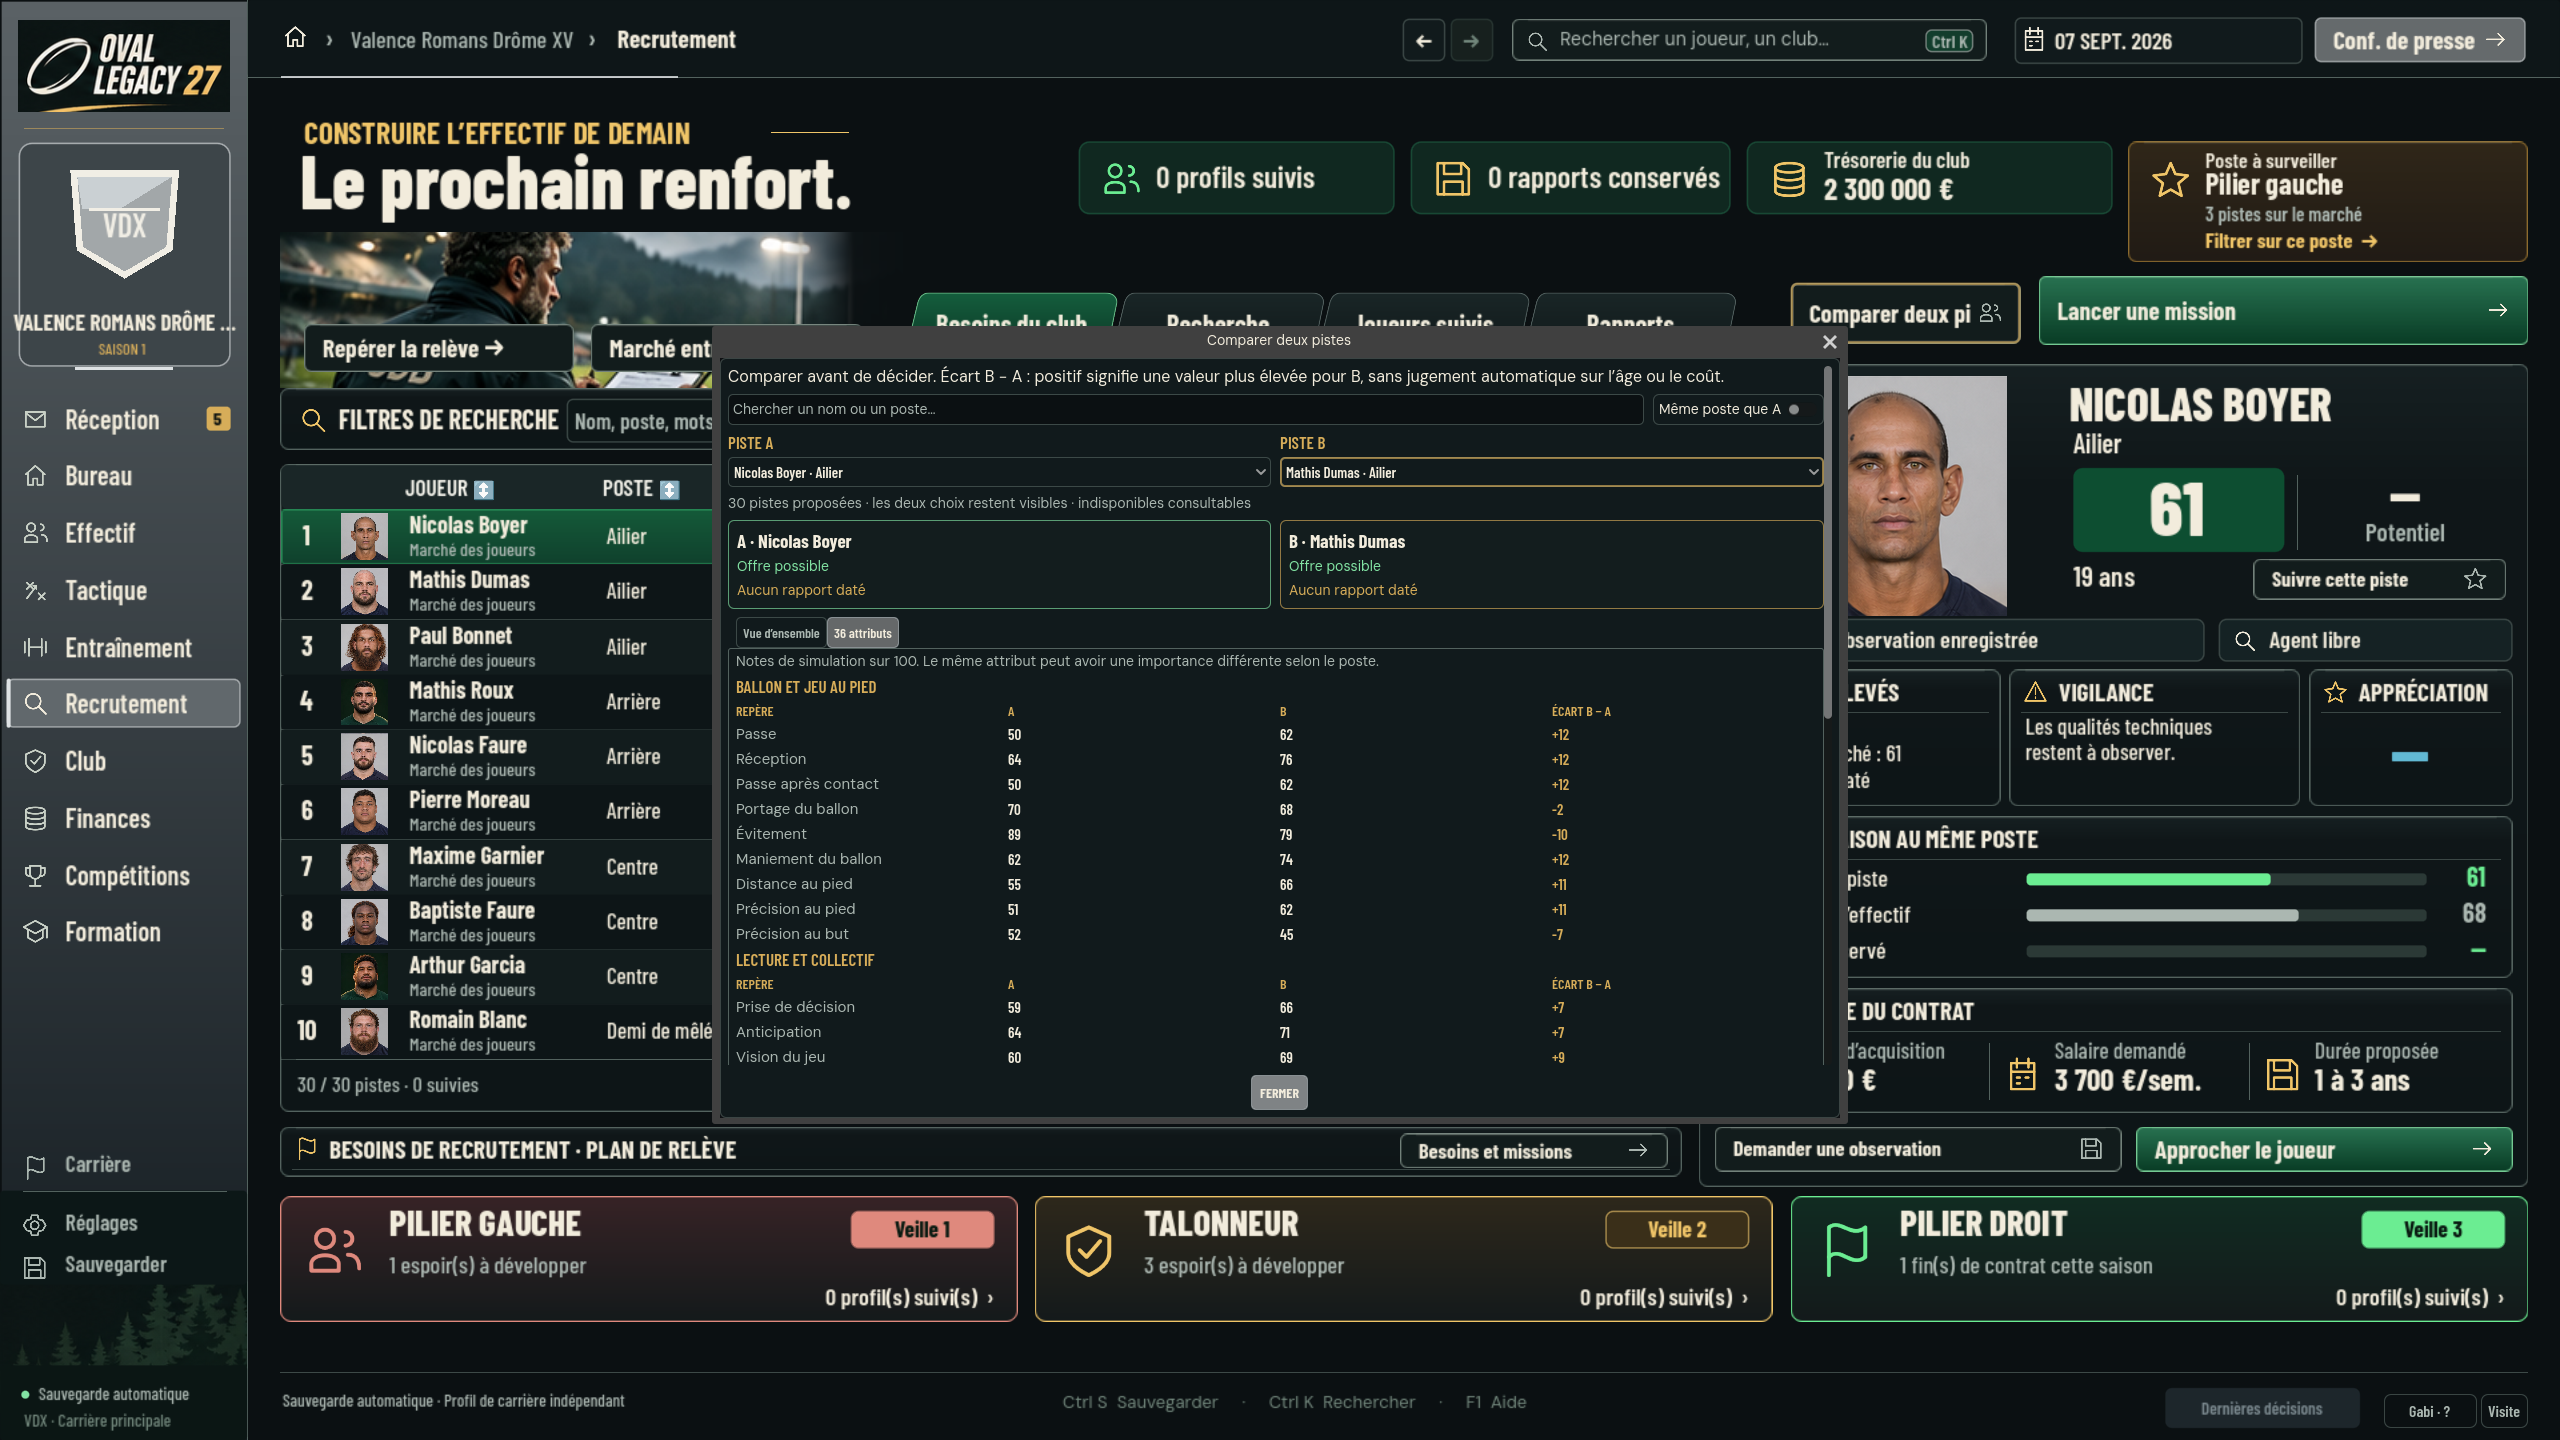
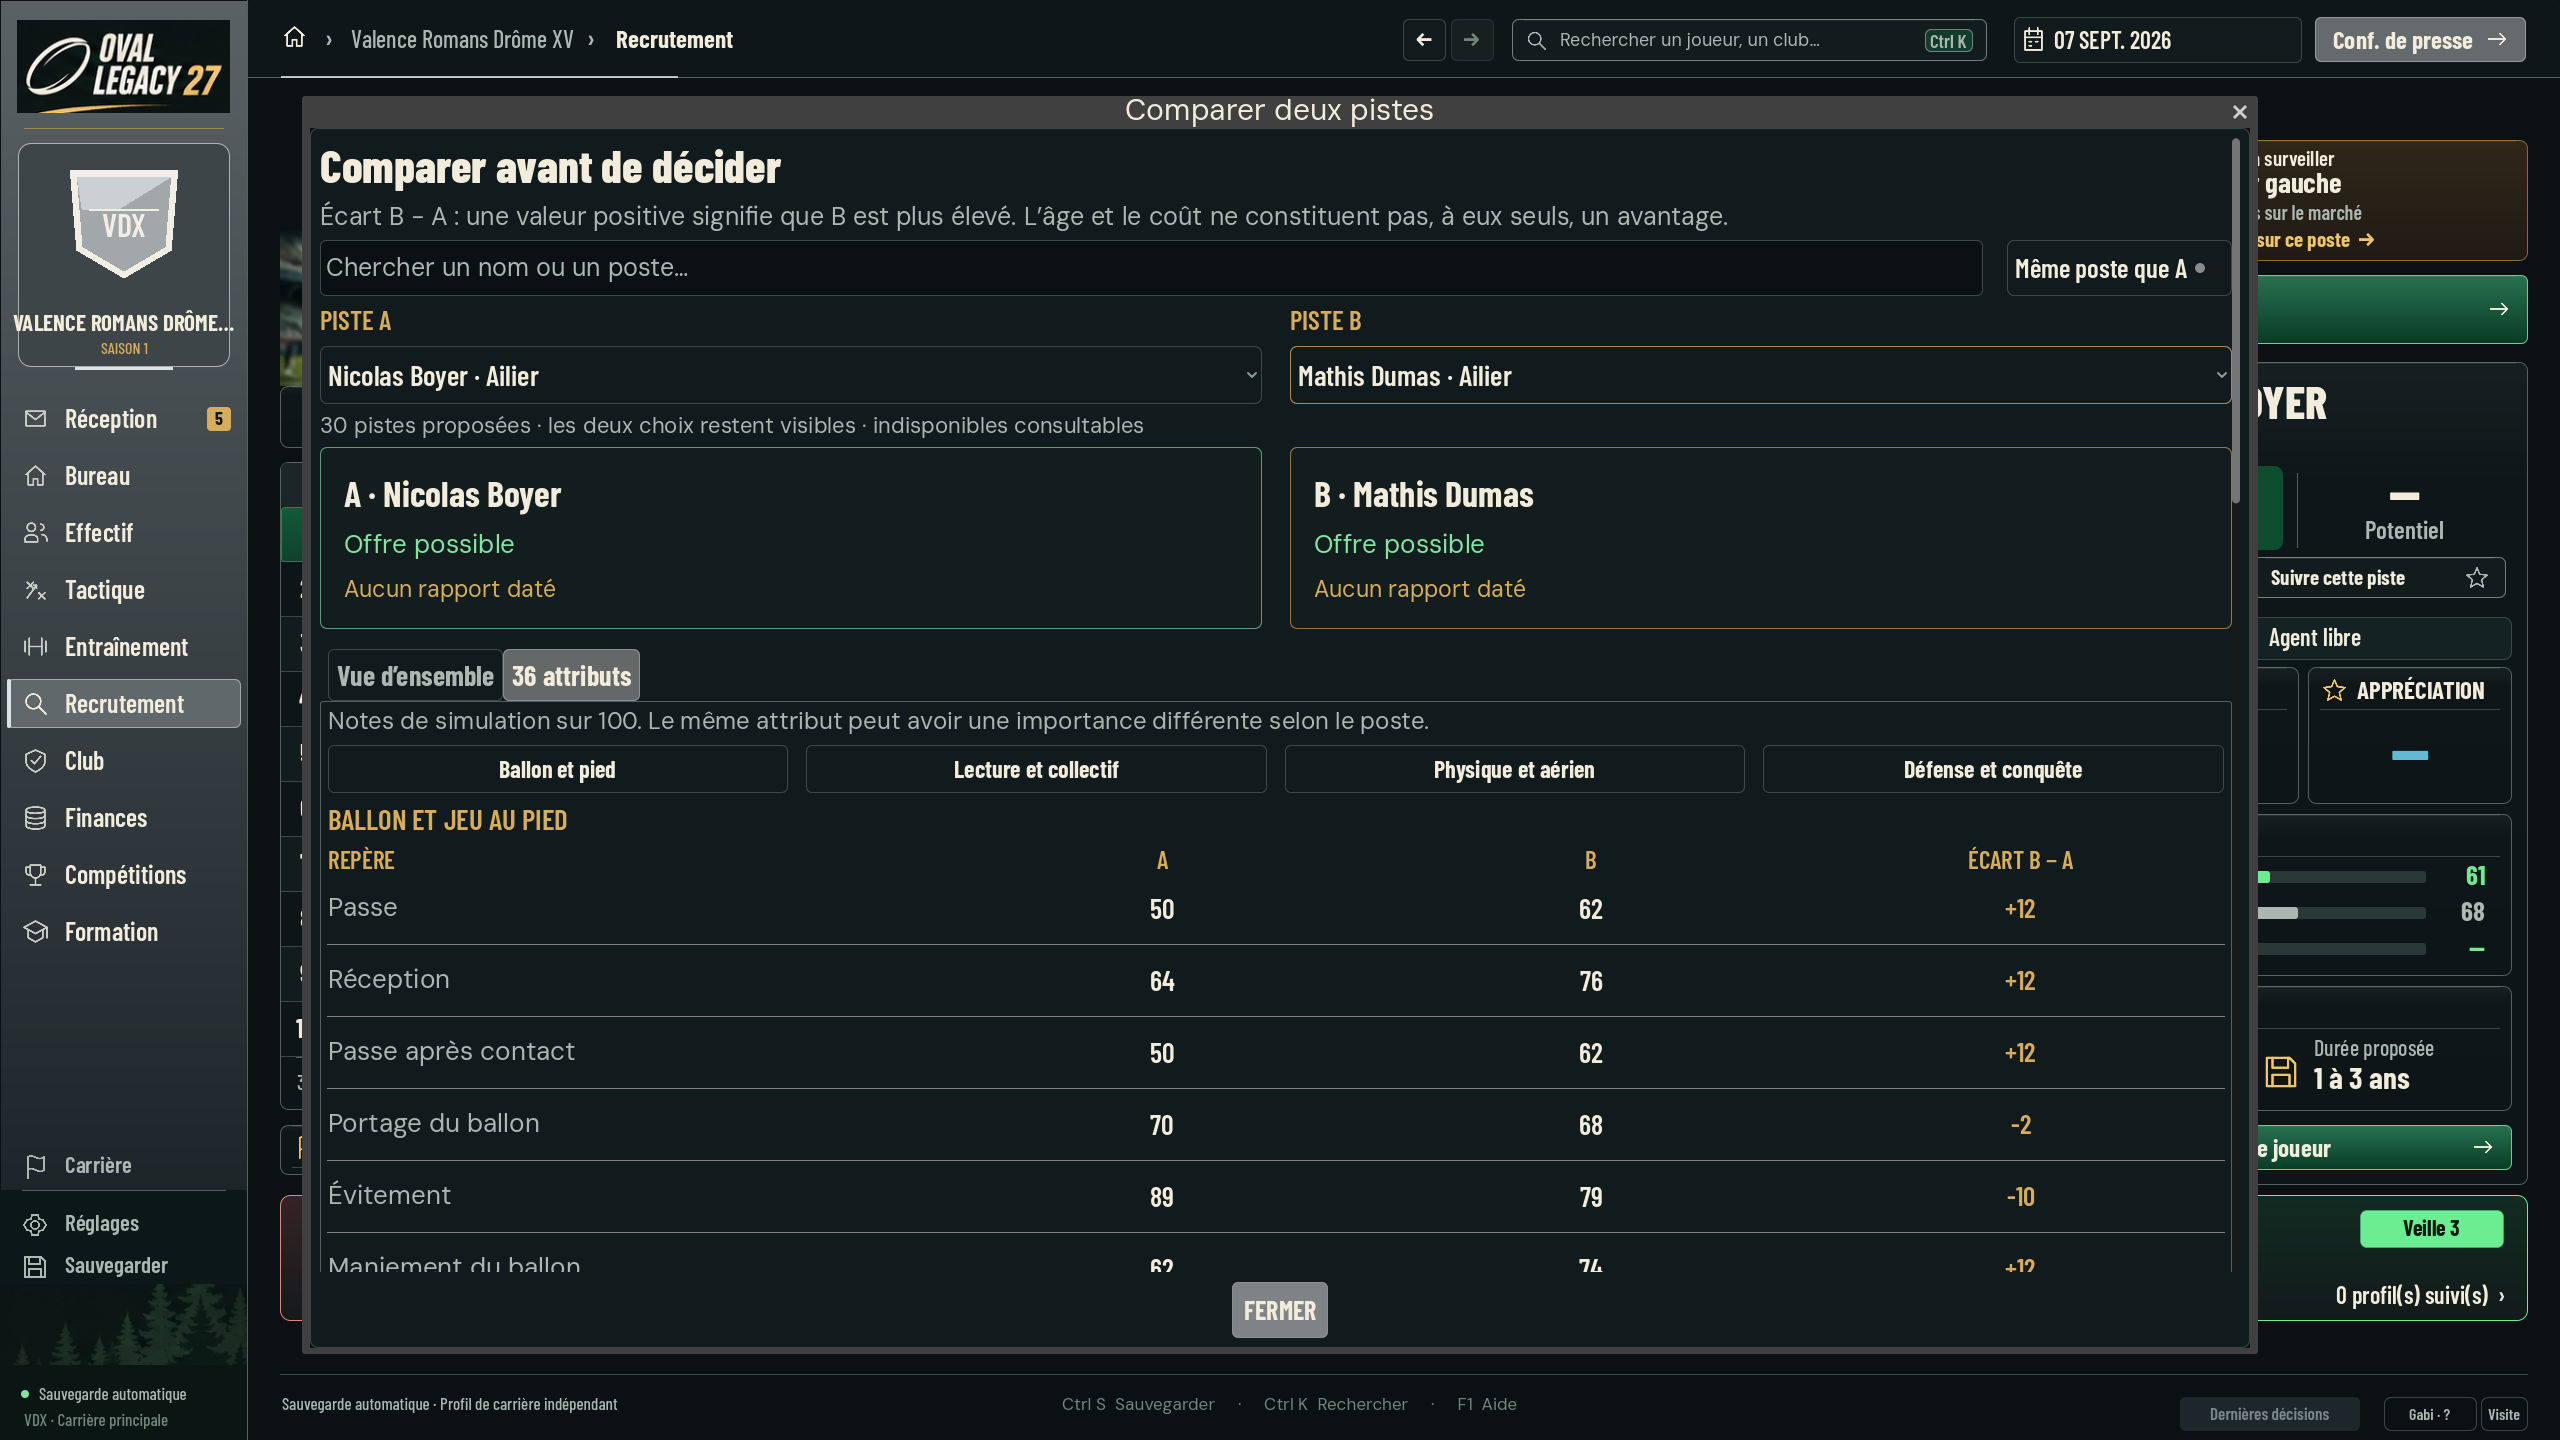
Présenter le 1440p comme référence et publier les captures intégrées

diff --git a/docs/oval-six-chantiers-cloud-20261110.md b/docs/oval-six-chantiers-cloud-20261110.md
@@ -2,11 +2,21 @@
 
 Reprise du 10 novembre 2026, demandée par Léo. Livraison cumulative dans la [PR #510](https://github.com/Xynph/cadrage-debordement/pull/510), sur la base #508 `cd3fa73c9a2aeb9e260e67fceed82097820b9573`. `main` vérifié avant reprise : `978803ba727e51c5af23f458868c6d56cc878966`. Aucun push sur main, aucune fusion ni réécriture des branches PC.
 
+## Référence visuelle : 2560 × 1440
+
+Léo a fixé le 1440p comme seule cible de conception et de réception pour ce lot. L’adaptation aux autres résolutions est reportée à un second temps. Les anciennes captures et recettes restent archivées, sans constituer une validation des petits formats pour la nouvelle présentation.
+
+Le comparateur utilise désormais un dialogue de 1940 × 1220, un titre de 46 px, des noms de 36 px, des valeurs de 28 px et des sélecteurs de 29 px. Les copies de sécurité utilisent un dialogue de 1460 × 1080, des textes de 20–24 px, des titres de 28–32 px et des confirmations centrées avec Annuler au focus initial. Les tailles réellement rendues sont mesurées, sans modifier le thème partagé.
+
+Sur le cumul `fc1e53b`, les deux recettes graphiques 1440p passent ensemble : **37 contrôles pour la comparaison et 36 pour les copies, 73 au total**, aucun échec ni test ignoré. [Journal](oval-six-chantiers-cloud-20261110/1440-integrated.log).
+
+La [CI JavaScript complète](https://github.com/Xynph/cadrage-debordement/actions/runs/42834222258) est verte sur le commit `055861b` : sept jobs complets sur sept. Les modifications suivantes sont limitées à la présentation Godot, à ses lanceurs de recette et aux preuves 1440p ; aucun fichier JavaScript du moteur, de dist ou des outils de simulation n’a changé. Les deux lanceurs ont aussi passé `node --check`. [Reçu CI](oval-six-chantiers-cloud-20261110/ci-js.json). Une éventuelle fusion doit toujours recevoir le HEAD exact selon le gate du dépôt.
+
 ## Essayer les six parcours
 
 | Parcours | Où aller | Ce qui est maintenant disponible |
 | --- | --- | --- |
-| Bureau | Bureau, en format compact ou large | Trois priorités expliquées avec échéance et action. Presse, direct/résultat, match du jour, feuille, trésorerie, absences et contrats utilisent la même sélection. Le bilan reste accessible en intersaison et l'entraînement est fermé en clôture. |
+| Bureau | Bureau, en 1440p | Trois priorités expliquées avec échéance et action. Presse, direct/résultat, match du jour, feuille, trésorerie, absences et contrats utilisent la même sélection. Le bilan reste accessible en intersaison et l'entraînement est fermé en clôture. |
 | Comparer deux joueurs | Recrutement → Comparer deux pistes | Deux sélections persistantes, recherche multi-mots, même poste, synthèse puis 36 attributs groupés. Les écarts B−A sont expliqués, le salaire hebdomadaire est séparé de la prime, une donnée absente reste « Non communiqué ». Les indisponibles restent consultables. |
 | Anticiper les convocations | Calendrier → Anticiper les absences, ou Sélections → Disponibilités | Absents confirmés, retours, postes principaux et profondeur disponible. Les fenêtres des 90 prochains jours sont séparées des joueurs réellement convoqués. Les liens ouvrent la bonne fiche et la composition. |
 | Préserver une carrière | Échap ou logo du jeu → Copies de sécurité | Copie durable avant remplacement/import/adaptation, liste et quota visibles, restauration ou suppression confirmées. Huit copies et 256 Mio maximum, aucun effacement automatique. En cas de refus d'écriture ou de validation, la carrière actuelle est conservée. |
@@ -27,25 +37,27 @@ Les captures sont issues de Godot sous Linux, sans retouche. Les profils sont je
 
 ![Bureau avec trois priorités et Gabi](oval-six-chantiers-cloud-20261110/bureau-gabi-1440.png)
 
-[Format 720p](oval-six-chantiers-cloud-20261110/bureau-720.png) · [Clôture de saison, projection UI contrôlée](oval-six-chantiers-cloud-20261110/bureau-cloture-1080.png)
+[Bureau 1440p](oval-six-chantiers-cloud-20261110/bureau-1440.png) · [Clôture de saison, projection UI contrôlée en 1440p](oval-six-chantiers-cloud-20261110/bureau-cloture-1440.png)
 
-### Comparer deux vrais candidats — 720p
+### Comparer deux vrais candidats — 1440p
 
-![Comparaison de deux joueurs](oval-six-chantiers-cloud-20261110/comparaison-720.png)
+![Comparaison de deux joueurs](oval-six-chantiers-cloud-20261110/comparaison-1440.png)
 
 [Attributs groupés en 1440p](oval-six-chantiers-cloud-20261110/attributs-1440.png). Le comparateur ne signe aucun contrat.
 
-### Disponibilités internationales — 720p
+### Disponibilités internationales — 1440p
 
-![Fenêtres internationales sur une vraie carrière](oval-six-chantiers-cloud-20261110/international-reel-720.png)
+![Fenêtres internationales sur une vraie carrière](oval-six-chantiers-cloud-20261110/international-reel-1440.png)
 
-[Cas contrôlé avec convocations et retours](oval-six-chantiers-cloud-20261110/international-controle-720.png). Les tests moteur reçoivent séparément les dates, suspensions, retours bissextiles et l'absence de mutation.
+[Cas contrôlé avec convocations et retours](oval-six-chantiers-cloud-20261110/international-controle-1440.png). Les tests moteur reçoivent séparément les dates, suspensions, retours bissextiles et l'absence de mutation.
 
-### Copies de sécurité — vraie création et restauration
+### Copies de sécurité — vraie création et restauration en 1440p
 
-![Gestion des copies de carrière](oval-six-chantiers-cloud-20261110/copies-securite-1080.png)
+![Gestion des copies de carrière](oval-six-chantiers-cloud-20261110/copies-securite-1440.png)
 
 Le banc ouvre le vrai menu au clavier, annule sans écrire, restaure la carrière choisie vers sa Réception, puis supprime uniquement une copie confirmée.
+
+![Confirmation centrée en 1440p](oval-six-chantiers-cloud-20261110/confirmation-reprise-1440.png)
 
 ### Rapport de simulation
 
@@ -54,6 +66,10 @@ Le banc ouvre le vrai menu au clavier, annule sans écrire, restaure la carrièr
 [Rapport HTML à télécharger et ouvrir](qa-long-career-20261110/index.html) · [JSON](qa-long-career-20261110/report.json) · [Vue mobile 390 px](qa-long-career-20261110/apercu-390.png) · [Campagne distincte sur le moteur cumulatif](qa-long-career-20261110/cumul-4a278be/report.json).
 
 ## Résultats et sources exactes
+
+Les mesures ci-dessous conservent l’historique avant le recentrage. La validation de la nouvelle présentation est celle des 73 contrôles graphiques exclusivement 1440p indiqués en tête. Les anciennes mesures multi-résolutions ne constituent pas une promesse d’adaptation de cette nouvelle présentation.
+
+<details><summary>Historique des réceptions et des campagnes</summary>
 
 | Réception | Résultat observé |
 | --- | --- |
@@ -73,6 +89,8 @@ Environnement : Linux, Node 22.23.4, Godot 4.7.2, X11/Mesa llvmpipe pour les ima
 
 Les [rapports et journaux](oval-six-chantiers-cloud-20261110/) sont conservés avec leurs [empreintes](oval-six-chantiers-cloud-20261110/sha256.json). La première tentative de recette graphique exhaustive du guide a atteint son ancien délai de 150 secondes et rencontré l'absence d'ALSA. Le lanceur Linux a ensuite été corrigé pour utiliser Dummy et un délai borné ; la validation graphique présente repose sur les recettes ciblées des écrans et du modèle réel, pas sur une exécution complète de cet ancien banc graphique.
 
+</details>
+
 ## Adaptations des bancs révélées par la CI complète
 
 Le [premier run complet](https://github.com/Xynph/cadrage-debordement/actions/runs/42828894916), sur `0293972`, a révélé trois hypothèses de fixtures devenues incompatibles avec les copies durables. Les corrections suivantes ne modifient aucun fichier du moteur, du rendu, des données ou du pilote.
@@ -81,7 +99,7 @@ Le [premier run complet](https://github.com/Xynph/cadrage-debordement/actions/ru
 - **Journées** : les cinq éditions sont désormais cinq sous-tests avec des profils temporaires indépendants, au lieu de cumuler cinq créations et cinq imports dans un seul profil. Les assertions de calendrier/import restent strictes ; dix tests reçus, aucun ignoré. [Journal](oval-six-chantiers-cloud-20261110/ci-days-received.log).
 - **Délégation** : le témoin et le moteur créent légitimement des UUID et dates d'archive différents. Seule la copie jetable du module utilisée par ce banc reçoit une entropie déterministe. Les sorties ne sont pas normalisées ; les comparaisons intégrales sont conservées et étendues aux octets de toutes les archives. Onze scénarios appariés et la vraie stdio sont reçus. [Explication](ci-delegation-copies-20261110.md), [journal](oval-six-chantiers-cloud-20261110/ci-delegation-received.log), [rapport](oval-six-chantiers-cloud-20261110/ci-delegation.json).
 
-La nouvelle CI porte sur ces fixtures corrigées. Le code produit reste identique à `0293972` ; aucun quota, délai CI ou contrôle métier n'a été réduit. Son verdict terminal et le SHA exact sont consignés dans la PR #510.
+La nouvelle CI porte sur ces fixtures corrigées. À cette étape de réparation des fixtures, le code produit restait identique à `0293972` ; aucun quota, délai CI ou contrôle métier n'a été réduit. Le recentrage Godot 1440p a ensuite été reçu séparément, comme détaillé en tête. Son verdict terminal et le SHA exact sont consignés dans la PR #510.
 
 ## Limites et suite PC
 
